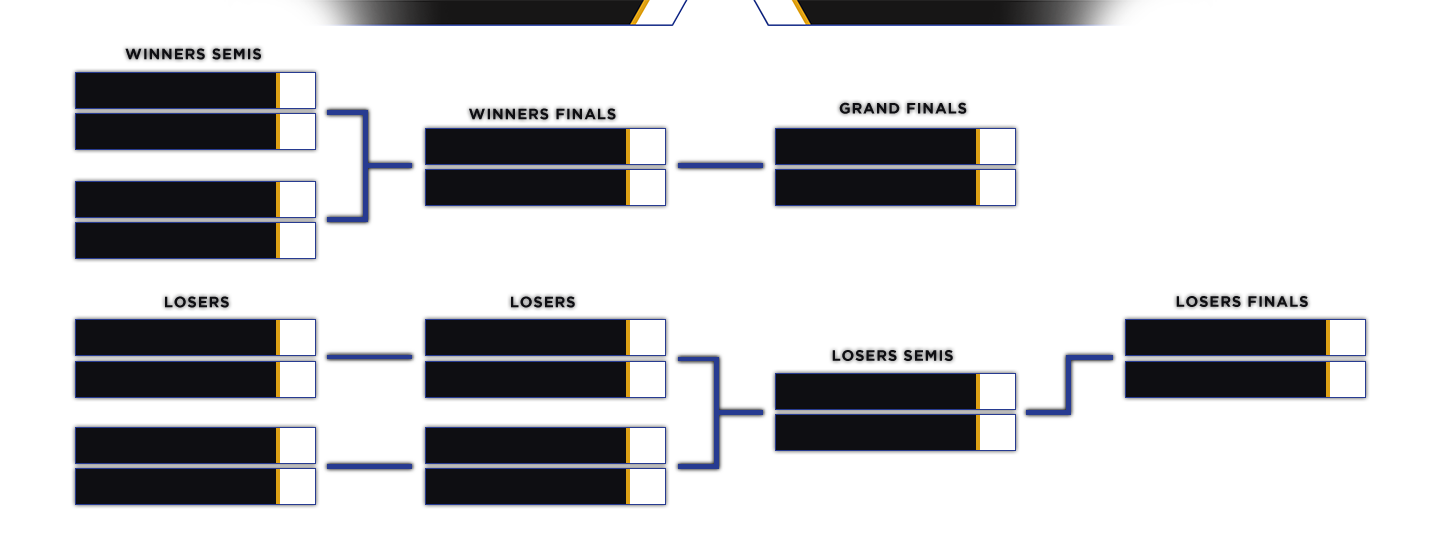
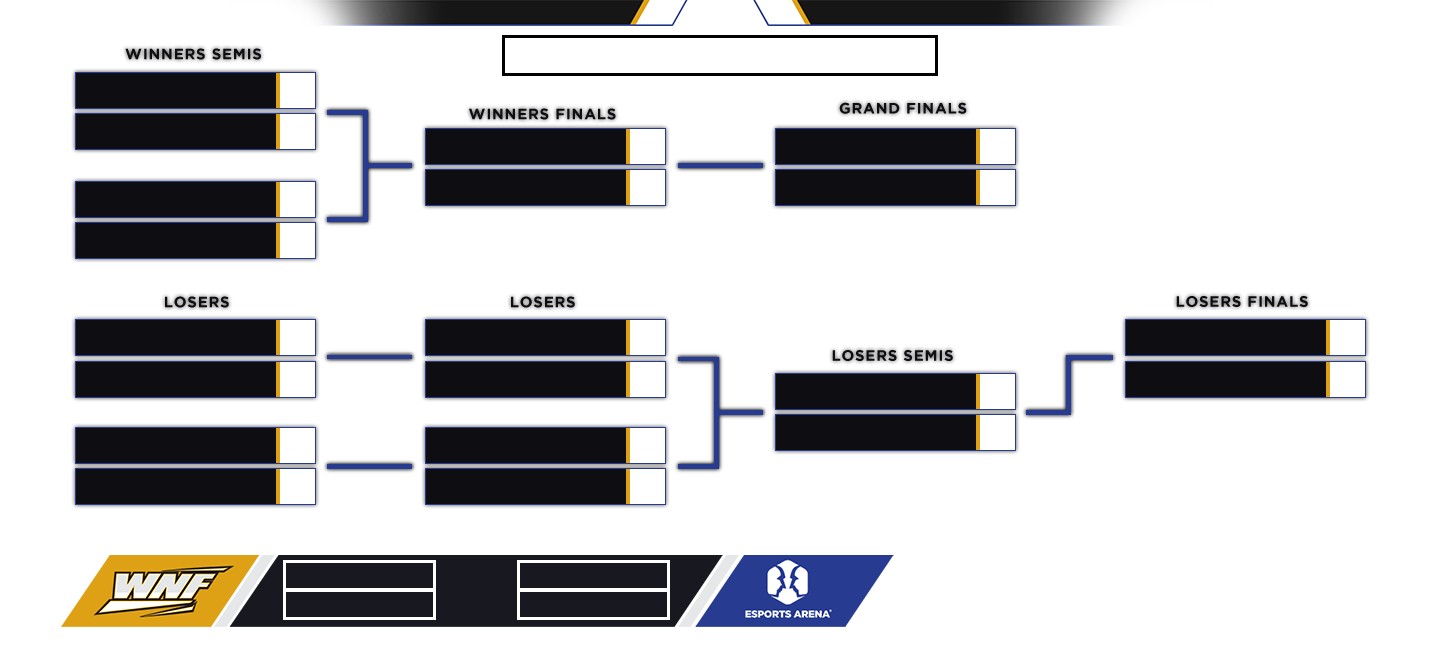
added round indicator and casters

diff --git a/src/main/java/me/fzzy/fzzytourney/bracketsections/Losers.kt b/src/main/java/me/fzzy/fzzytourney/bracketsections/Losers.kt
@@ -1,14 +1,14 @@
 package me.fzzy.fzzytourney.bracketsections
 
-import me.fzzy.fzzytourney.PlayerValues
+import me.fzzy.fzzytourney.ObsField
 import me.fzzy.fzzytourney.TourneyApp
 import me.fzzy.fzzytourney.util.SetName
 import me.fzzy.fzzytourney.util.SmashGGApi
 
 object Losers {
 
-    val names = arrayListOf<PlayerValues>()
-    val wins = arrayListOf<PlayerValues>()
+    val names = arrayListOf<ObsField>()
+    val wins = arrayListOf<ObsField>()
 
     val player1 get() = names[0]
     val player1Wins get() = wins[0]
@@ -35,29 +35,29 @@ object Losers {
     val player8Wins get() = wins[7]
 
     init {
-        names.add(PlayerValues(80.0, 325.0, TourneyApp.bracketNameSize, "Losers 1"))
-        wins.add(PlayerValues(285.0, 325.0, TourneyApp.bracketWinsSize, "Losers 1 Wins").wins())
+        names.add(ObsField(80.0, 325.0, TourneyApp.bracketNameSize, "Losers 1"))
+        wins.add(ObsField(285.0, 325.0, TourneyApp.bracketWinsSize, "Losers 1 Wins").wins())
 
-        names.add(PlayerValues(80.0, 367.0, TourneyApp.bracketNameSize, "Losers 2"))
-        wins.add(PlayerValues(285.0, 367.0, TourneyApp.bracketWinsSize, "Losers 2 Wins").wins())
+        names.add(ObsField(80.0, 367.0, TourneyApp.bracketNameSize, "Losers 2"))
+        wins.add(ObsField(285.0, 367.0, TourneyApp.bracketWinsSize, "Losers 2 Wins").wins())
 
-        names.add(PlayerValues(80.0, 433.0, TourneyApp.bracketNameSize, "Losers 3"))
-        wins.add(PlayerValues(285.0, 433.0, TourneyApp.bracketWinsSize, "Losers 3 Wins").wins())
+        names.add(ObsField(80.0, 433.0, TourneyApp.bracketNameSize, "Losers 3"))
+        wins.add(ObsField(285.0, 433.0, TourneyApp.bracketWinsSize, "Losers 3 Wins").wins())
 
-        names.add(PlayerValues(80.0, 474.0, TourneyApp.bracketNameSize, "Losers 4"))
-        wins.add(PlayerValues(285.0, 474.0, TourneyApp.bracketWinsSize, "Losers 4 Wins").wins())
+        names.add(ObsField(80.0, 474.0, TourneyApp.bracketNameSize, "Losers 4"))
+        wins.add(ObsField(285.0, 474.0, TourneyApp.bracketWinsSize, "Losers 4 Wins").wins())
 
-        names.add(PlayerValues(430.0, 325.0, TourneyApp.bracketNameSize, "Losers 5"))
-        wins.add(PlayerValues(635.0, 325.0, TourneyApp.bracketWinsSize, "Losers 5 Wins").wins())
+        names.add(ObsField(430.0, 325.0, TourneyApp.bracketNameSize, "Losers 5"))
+        wins.add(ObsField(635.0, 325.0, TourneyApp.bracketWinsSize, "Losers 5 Wins").wins())
 
-        names.add(PlayerValues(430.0, 367.0, TourneyApp.bracketNameSize, "Losers 6"))
-        wins.add(PlayerValues(635.0, 367.0, TourneyApp.bracketWinsSize, "Losers 6 Wins").wins())
+        names.add(ObsField(430.0, 367.0, TourneyApp.bracketNameSize, "Losers 6"))
+        wins.add(ObsField(635.0, 367.0, TourneyApp.bracketWinsSize, "Losers 6 Wins").wins())
 
-        names.add(PlayerValues(430.0, 433.0, TourneyApp.bracketNameSize, "Losers 7"))
-        wins.add(PlayerValues(635.0, 433.0, TourneyApp.bracketWinsSize, "Losers 7 Wins").wins())
+        names.add(ObsField(430.0, 433.0, TourneyApp.bracketNameSize, "Losers 7"))
+        wins.add(ObsField(635.0, 433.0, TourneyApp.bracketWinsSize, "Losers 7 Wins").wins())
 
-        names.add(PlayerValues(430.0, 474.0, TourneyApp.bracketNameSize, "Losers 8"))
-        wins.add(PlayerValues(635.0, 474.0, TourneyApp.bracketWinsSize, "Losers 8 Wins").wins())
+        names.add(ObsField(430.0, 474.0, TourneyApp.bracketNameSize, "Losers 8"))
+        wins.add(ObsField(635.0, 474.0, TourneyApp.bracketWinsSize, "Losers 8 Wins").wins())
     }
 
     fun update(api: SmashGGApi) {

diff --git a/src/main/java/me/fzzy/fzzytourney/TourneyApp.kt b/src/main/java/me/fzzy/fzzytourney/TourneyApp.kt
@@ -8,19 +8,15 @@ import javafx.scene.control.TextField
 import javafx.scene.control.ToggleButton
 import javafx.scene.image.Image
 import javafx.scene.layout.*
+import javafx.scene.paint.Color
 import javafx.stage.Stage
 import me.fzzy.fzzytourney.bracketsections.*
 import me.fzzy.fzzytourney.util.Coordinates
-import me.fzzy.fzzytourney.util.SmashGGApi
-import org.json.JSONObject
-import java.io.BufferedReader
 import java.io.File
-import java.io.InputStreamReader
-import java.net.HttpURLConnection
-import java.net.URL
 import java.nio.charset.Charset
 import java.nio.file.Files
 import java.util.*
+import kotlin.math.round
 
 class TourneyApp : Application() {
 
@@ -44,7 +40,7 @@ class TourneyApp : Application() {
         fun applyChanges() {
             for (child in pane.children) {
                 File("data").mkdir()
-                if (child is PlayerValues) {
+                if (child is ObsField) {
                     Files.write(File("data" + File.separator + child.name + ".txt").toPath(), Arrays.asList(child.text), Charset.forName("UTF-8"))
                 }
             }
@@ -52,7 +48,7 @@ class TourneyApp : Application() {
 
         fun resetToDefault() {
             for (child in pane.children) {
-                if (child is PlayerValues) {
+                if (child is ObsField) {
                     child.resetToDefault()
                 }
             }
@@ -87,6 +83,22 @@ class TourneyApp : Application() {
 
         pane.children.addAll(CurrentlyPlaying.names)
         pane.children.addAll(CurrentlyPlaying.wins)
+
+        val roundIndicator = ObsField(510.0, 43.0, Coordinates(430.0, 35.0), "Round Indicator")
+        roundIndicator.style = "-fx-text-fill: black;"
+        pane.children.add(roundIndicator)
+
+        val caster1 = ObsField(291.0, 568.0, Coordinates(147.0, 25.0), "Caster 1")
+        pane.children.add(caster1)
+
+        val caster1Tag = ObsField(291.0, 597.0, Coordinates(147.0, 25.0), "Caster 1 Tag")
+        pane.children.add(caster1Tag)
+
+        val caster2 = ObsField(525.0, 568.0, Coordinates(147.0, 25.0), "Caster 2")
+        pane.children.add(caster2)
+
+        val caster2Tag = ObsField(525.0, 597.0, Coordinates(147.0, 25.0), "Caster 2 Tag")
+        pane.children.add(caster2Tag)
 
         val applyButton = Button("Apply")
         applyButton.prefWidth = 100.0

diff --git a/src/main/java/me/fzzy/fzzytourney/bracketsections/WinnersSemis.kt b/src/main/java/me/fzzy/fzzytourney/bracketsections/WinnersSemis.kt
@@ -1,15 +1,14 @@
 package me.fzzy.fzzytourney.bracketsections
 
-import javafx.scene.layout.Pane
-import me.fzzy.fzzytourney.PlayerValues
+import me.fzzy.fzzytourney.ObsField
 import me.fzzy.fzzytourney.TourneyApp
 import me.fzzy.fzzytourney.util.SetName
 import me.fzzy.fzzytourney.util.SmashGGApi
 
 object WinnersSemis {
 
-    val names = arrayListOf<PlayerValues>()
-    val wins = arrayListOf<PlayerValues>()
+    val names = arrayListOf<ObsField>()
+    val wins = arrayListOf<ObsField>()
 
     val player1 get() = names[0]
     val player1Wins get() = wins[0]
@@ -24,17 +23,17 @@ object WinnersSemis {
     val player4Wins get() = wins[3]
 
     init {
-        names.add(PlayerValues(80.0, 78.0, TourneyApp.bracketNameSize, "Winners Semis 1"))
-        wins.add(PlayerValues(285.0, 78.0, TourneyApp.bracketWinsSize, "Winners Semis 1 Wins").wins())
+        names.add(ObsField(80.0, 78.0, TourneyApp.bracketNameSize, "Winners Semis 1"))
+        wins.add(ObsField(285.0, 78.0, TourneyApp.bracketWinsSize, "Winners Semis 1 Wins").wins())
 
-        names.add(PlayerValues(80.0, 119.0, TourneyApp.bracketNameSize, "Winners Semis 2"))
-        wins.add(PlayerValues(285.0, 119.0, TourneyApp.bracketWinsSize, "Winners Semis 2 Wins").wins())
+        names.add(ObsField(80.0, 119.0, TourneyApp.bracketNameSize, "Winners Semis 2"))
+        wins.add(ObsField(285.0, 119.0, TourneyApp.bracketWinsSize, "Winners Semis 2 Wins").wins())
 
-        names.add(PlayerValues(80.0, 187.0, TourneyApp.bracketNameSize, "Winners Semis 3"))
-        wins.add(PlayerValues(285.0, 187.0, TourneyApp.bracketWinsSize, "Winners Semis 3 Wins").wins())
+        names.add(ObsField(80.0, 187.0, TourneyApp.bracketNameSize, "Winners Semis 3"))
+        wins.add(ObsField(285.0, 187.0, TourneyApp.bracketWinsSize, "Winners Semis 3 Wins").wins())
 
-        names.add(PlayerValues(80.0, 228.0, TourneyApp.bracketNameSize, "Winners Semis 4"))
-        wins.add(PlayerValues(285.0, 228.0, TourneyApp.bracketWinsSize, "Winners Semis 4 Wins").wins())
+        names.add(ObsField(80.0, 228.0, TourneyApp.bracketNameSize, "Winners Semis 4"))
+        wins.add(ObsField(285.0, 228.0, TourneyApp.bracketWinsSize, "Winners Semis 4 Wins").wins())
     }
 
     fun update(api: SmashGGApi) {

diff --git a/src/main/java/me/fzzy/fzzytourney/bracketsections/WinnersFinals.kt b/src/main/java/me/fzzy/fzzytourney/bracketsections/WinnersFinals.kt
@@ -1,14 +1,14 @@
 package me.fzzy.fzzytourney.bracketsections
 
-import me.fzzy.fzzytourney.PlayerValues
+import me.fzzy.fzzytourney.ObsField
 import me.fzzy.fzzytourney.TourneyApp
 import me.fzzy.fzzytourney.util.SetName
 import me.fzzy.fzzytourney.util.SmashGGApi
 
 object WinnersFinals {
 
-    val names = arrayListOf<PlayerValues>()
-    val wins = arrayListOf<PlayerValues>()
+    val names = arrayListOf<ObsField>()
+    val wins = arrayListOf<ObsField>()
 
     val player1 get() = names[0]
     val player1Wins get() = wins[0]
@@ -17,11 +17,11 @@ object WinnersFinals {
     val player2Wins get() = wins[1]
 
     init {
-        names.add(PlayerValues(430.0, 134.0, TourneyApp.bracketNameSize, "Winners Finals 1"))
-        wins.add(PlayerValues(635.0, 134.0, TourneyApp.bracketWinsSize, "Winners Finals 1 Wins").wins())
+        names.add(ObsField(430.0, 134.0, TourneyApp.bracketNameSize, "Winners Finals 1"))
+        wins.add(ObsField(635.0, 134.0, TourneyApp.bracketWinsSize, "Winners Finals 1 Wins").wins())
 
-        names.add(PlayerValues(430.0, 175.0, TourneyApp.bracketNameSize, "Winners Finals 2"))
-        wins.add(PlayerValues(635.0, 175.0, TourneyApp.bracketWinsSize, "Winners Finals 2 Wins").wins())
+        names.add(ObsField(430.0, 175.0, TourneyApp.bracketNameSize, "Winners Finals 2"))
+        wins.add(ObsField(635.0, 175.0, TourneyApp.bracketWinsSize, "Winners Finals 2 Wins").wins())
     }
 
     fun update(api: SmashGGApi) {

diff --git a/src/main/java/me/fzzy/fzzytourney/bracketsections/LosersFinals.kt b/src/main/java/me/fzzy/fzzytourney/bracketsections/LosersFinals.kt
@@ -1,14 +1,14 @@
 package me.fzzy.fzzytourney.bracketsections
 
-import me.fzzy.fzzytourney.PlayerValues
+import me.fzzy.fzzytourney.ObsField
 import me.fzzy.fzzytourney.TourneyApp
 import me.fzzy.fzzytourney.util.SetName
 import me.fzzy.fzzytourney.util.SmashGGApi
 
 object LosersFinals {
 
-    val names = arrayListOf<PlayerValues>()
-    val wins = arrayListOf<PlayerValues>()
+    val names = arrayListOf<ObsField>()
+    val wins = arrayListOf<ObsField>()
 
     val player1 get() = names[0]
     val player1Wins get() = wins[0]
@@ -17,11 +17,11 @@ object LosersFinals {
     val player2Wins get() = wins[1]
 
     init {
-        names.add(PlayerValues(1130.0, 325.0, TourneyApp.bracketNameSize, "Losers Finals 1"))
-        wins.add(PlayerValues(1335.0, 325.0, TourneyApp.bracketWinsSize, "Losers Finals 1 Wins").wins())
+        names.add(ObsField(1130.0, 325.0, TourneyApp.bracketNameSize, "Losers Finals 1"))
+        wins.add(ObsField(1335.0, 325.0, TourneyApp.bracketWinsSize, "Losers Finals 1 Wins").wins())
 
-        names.add(PlayerValues(1130.0, 367.0, TourneyApp.bracketNameSize, "Losers Finals 2"))
-        wins.add(PlayerValues(1335.0, 367.0, TourneyApp.bracketWinsSize, "Losers Finals 2 Wins").wins())
+        names.add(ObsField(1130.0, 367.0, TourneyApp.bracketNameSize, "Losers Finals 2"))
+        wins.add(ObsField(1335.0, 367.0, TourneyApp.bracketWinsSize, "Losers Finals 2 Wins").wins())
     }
 
     fun update(api: SmashGGApi) {

diff --git a/src/main/java/me/fzzy/fzzytourney/bracketsections/GrandFinals.kt b/src/main/java/me/fzzy/fzzytourney/bracketsections/GrandFinals.kt
@@ -1,14 +1,14 @@
 package me.fzzy.fzzytourney.bracketsections
 
-import me.fzzy.fzzytourney.PlayerValues
+import me.fzzy.fzzytourney.ObsField
 import me.fzzy.fzzytourney.TourneyApp
 import me.fzzy.fzzytourney.util.SetName
 import me.fzzy.fzzytourney.util.SmashGGApi
 
 object GrandFinals {
 
-    val names = arrayListOf<PlayerValues>()
-    val wins = arrayListOf<PlayerValues>()
+    val names = arrayListOf<ObsField>()
+    val wins = arrayListOf<ObsField>()
 
     val player1 get() = names[0]
     val player1Wins get() = wins[0]
@@ -17,11 +17,11 @@ object GrandFinals {
     val player2Wins get() = wins[1]
 
     init {
-        names.add(PlayerValues(780.0, 134.0, TourneyApp.bracketNameSize, "Grand Finals 1"))
-        wins.add(PlayerValues(985.0, 134.0, TourneyApp.bracketWinsSize, "Grand Finals 1 Wins").wins())
+        names.add(ObsField(780.0, 134.0, TourneyApp.bracketNameSize, "Grand Finals 1"))
+        wins.add(ObsField(985.0, 134.0, TourneyApp.bracketWinsSize, "Grand Finals 1 Wins").wins())
 
-        names.add(PlayerValues(780.0, 175.0, TourneyApp.bracketNameSize, "Grand Finals 2"))
-        wins.add(PlayerValues(985.0, 175.0, TourneyApp.bracketWinsSize, "Grand Finals 2 Wins").wins())
+        names.add(ObsField(780.0, 175.0, TourneyApp.bracketNameSize, "Grand Finals 2"))
+        wins.add(ObsField(985.0, 175.0, TourneyApp.bracketWinsSize, "Grand Finals 2 Wins").wins())
     }
 
     fun update(api: SmashGGApi) {

diff --git a/src/main/java/me/fzzy/fzzytourney/bracketsections/LosersSemis.kt b/src/main/java/me/fzzy/fzzytourney/bracketsections/LosersSemis.kt
@@ -1,14 +1,14 @@
 package me.fzzy.fzzytourney.bracketsections
 
-import me.fzzy.fzzytourney.PlayerValues
+import me.fzzy.fzzytourney.ObsField
 import me.fzzy.fzzytourney.TourneyApp
 import me.fzzy.fzzytourney.util.SetName
 import me.fzzy.fzzytourney.util.SmashGGApi
 
 object LosersSemis {
 
-    val names = arrayListOf<PlayerValues>()
-    val wins = arrayListOf<PlayerValues>()
+    val names = arrayListOf<ObsField>()
+    val wins = arrayListOf<ObsField>()
 
     val player1 get() = names[0]
     val player1Wins get() = wins[0]
@@ -17,11 +17,11 @@ object LosersSemis {
     val player2Wins get() = wins[1]
 
     init {
-        names.add(PlayerValues(780.0, 379.0, TourneyApp.bracketNameSize, "Losers Semis 1"))
-        wins.add(PlayerValues(985.0, 379.0, TourneyApp.bracketWinsSize, "Losers Semis 1 Wins").wins())
+        names.add(ObsField(780.0, 379.0, TourneyApp.bracketNameSize, "Losers Semis 1"))
+        wins.add(ObsField(985.0, 379.0, TourneyApp.bracketWinsSize, "Losers Semis 1 Wins").wins())
 
-        names.add(PlayerValues(780.0, 420.0, TourneyApp.bracketNameSize, "Losers Semis 2"))
-        wins.add(PlayerValues(985.0, 420.0, TourneyApp.bracketWinsSize, "Losers Semis 2 Wins").wins())
+        names.add(ObsField(780.0, 420.0, TourneyApp.bracketNameSize, "Losers Semis 2"))
+        wins.add(ObsField(985.0, 420.0, TourneyApp.bracketWinsSize, "Losers Semis 2 Wins").wins())
     }
 
     fun update(api: SmashGGApi) {

diff --git a/src/main/java/me/fzzy/fzzytourney/CurrentlyPlaying.kt b/src/main/java/me/fzzy/fzzytourney/CurrentlyPlaying.kt
@@ -2,8 +2,8 @@ package me.fzzy.fzzytourney
 
 object CurrentlyPlaying {
 
-    val names = arrayListOf<PlayerValues>()
-    val wins = arrayListOf<PlayerValues>()
+    val names = arrayListOf<ObsField>()
+    val wins = arrayListOf<ObsField>()
 
     val player1 get() = names[0]
     val player1Wins get() = wins[0]
@@ -12,11 +12,11 @@ object CurrentlyPlaying {
     val player2Wins get() = wins[1]
 
     init {
-        names.add(PlayerValues(440.0, 0.0, TourneyApp.bracketNameSize, "Player 1"))
-        wins.add(PlayerValues(648.0, 0.0, TourneyApp.bracketWinsSize, "Player 1 Wins").wins())
+        names.add(ObsField(440.0, 0.0, TourneyApp.bracketNameSize, "Player 1"))
+        wins.add(ObsField(648.0, 0.0, TourneyApp.bracketWinsSize, "Player 1 Wins").wins())
 
-        names.add(PlayerValues(811.0, 0.0, TourneyApp.bracketNameSize, "Player 2"))
-        wins.add(PlayerValues(768.0, 0.0, TourneyApp.bracketWinsSize, "Player 2 Wins").wins())
+        names.add(ObsField(811.0, 0.0, TourneyApp.bracketNameSize, "Player 2"))
+        wins.add(ObsField(768.0, 0.0, TourneyApp.bracketWinsSize, "Player 2 Wins").wins())
     }
 
 }

diff --git a/src/main/java/me/fzzy/fzzytourney/ObsField.kt b/src/main/java/me/fzzy/fzzytourney/ObsField.kt
@@ -8,11 +8,11 @@ import me.fzzy.fzzytourney.util.Coordinates
 import java.io.File
 import java.nio.file.Files
 
-class PlayerValues constructor(x: Double, y: Double, size: Coordinates, val name: String) : TextField() {
+class ObsField constructor(x: Double, y: Double, size: Coordinates, val name: String) : TextField() {
 
     private var ogText = ""
 
-    fun wins(): PlayerValues {
+    fun wins(): ObsField {
         this.style = "-fx-text-fill: black;"
         this.ogText = "0"
         return this

diff --git a/src/main/java/me/fzzy/fzzytourney/AutoFillThread.kt b/src/main/java/me/fzzy/fzzytourney/AutoFillThread.kt
@@ -23,7 +23,7 @@ object AutoFillThread : Thread() {
                 } catch (e: Exception) {
                 }
             }
-            Thread.sleep(10000)
+            Thread.sleep(5000)
         }
     }
 
